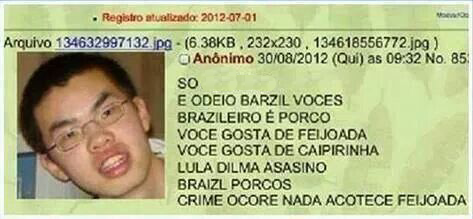
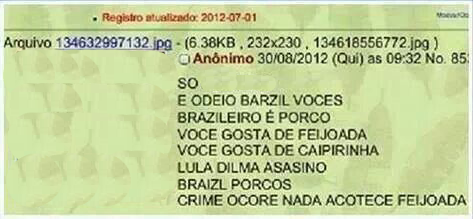
adding feijoada

Changed region(s): [[0.0296, 0.2192, 0.3552, 0.9315]]

diff --git a/main.py b/main.py
@@ -161,8 +161,12 @@ async def feijoada(ctx, *args):
     try:
         string = ' '.join(args)
 
-        await ctx.send(file=generate_card_img(string, "templates/imgs/nada.png", "nada", 15, 205, 70, (0, 0, 0), 15,
-                       ctx.author.avatar_url._url, 16, 52, 150, 150))
+        url = generate_image_search_url(args)
+        res = requests.get(url)
+        image_link = res.json()["items"][0]["link"]
+
+        await ctx.send(file=generate_card_img(string, "templates/imgs/nada.png", "nada", 15, 205, 70, (0, 0, 0), 30,
+                       image_link, 16, 55, 150, 150))
 
     except FutebotException as e:
         puts.info(e)
